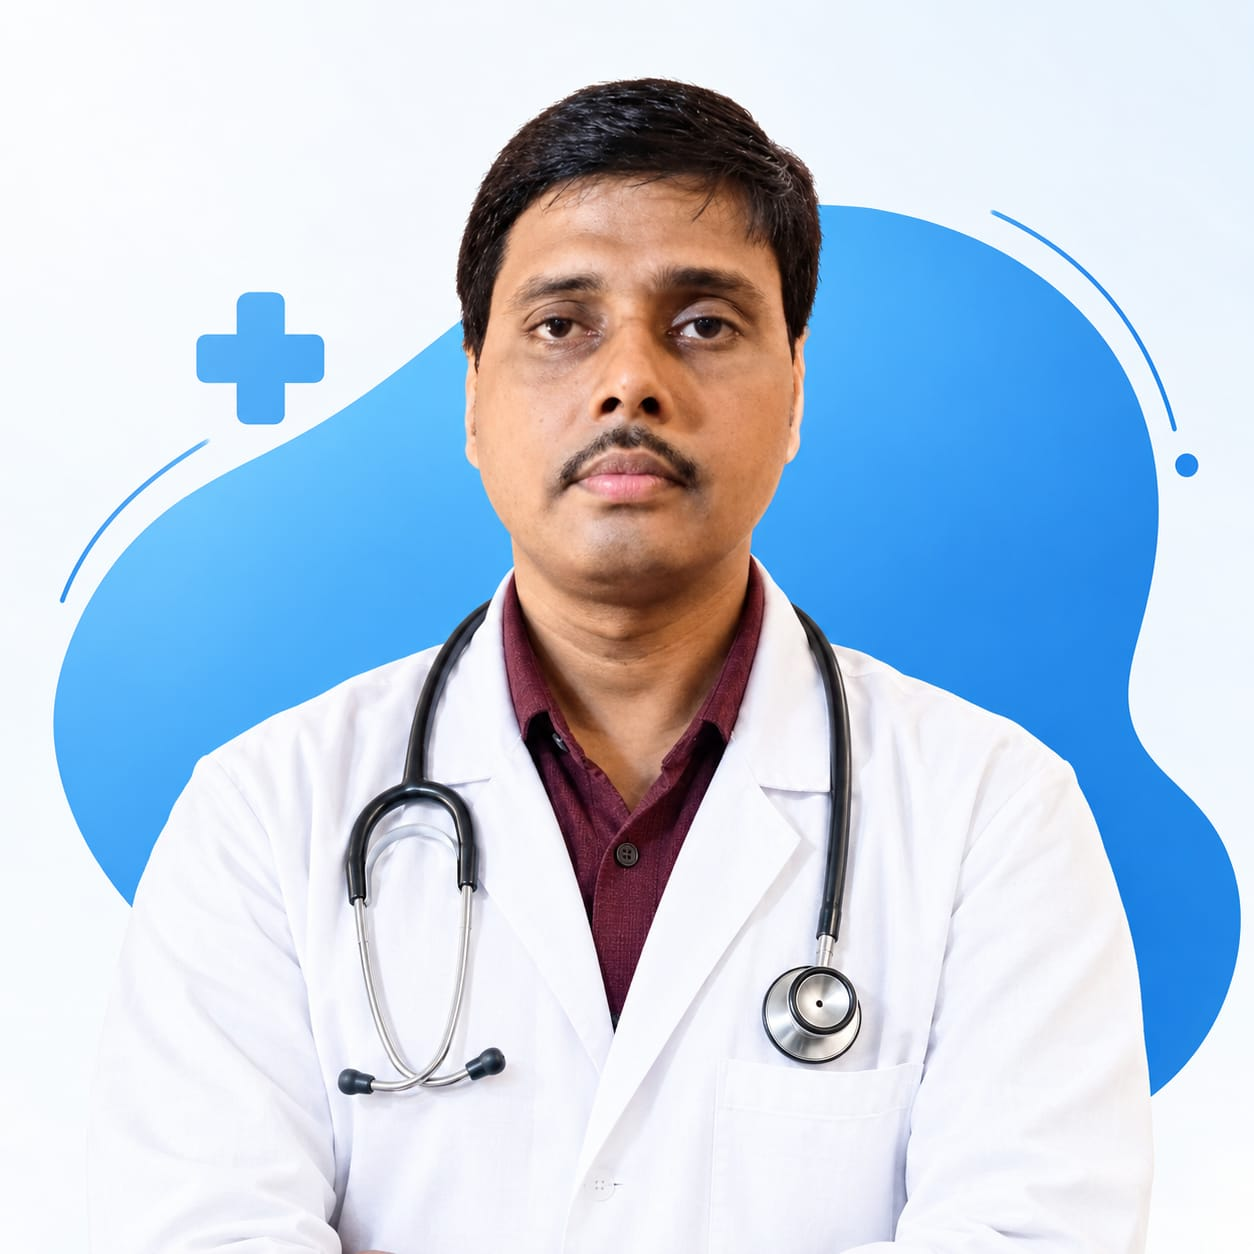
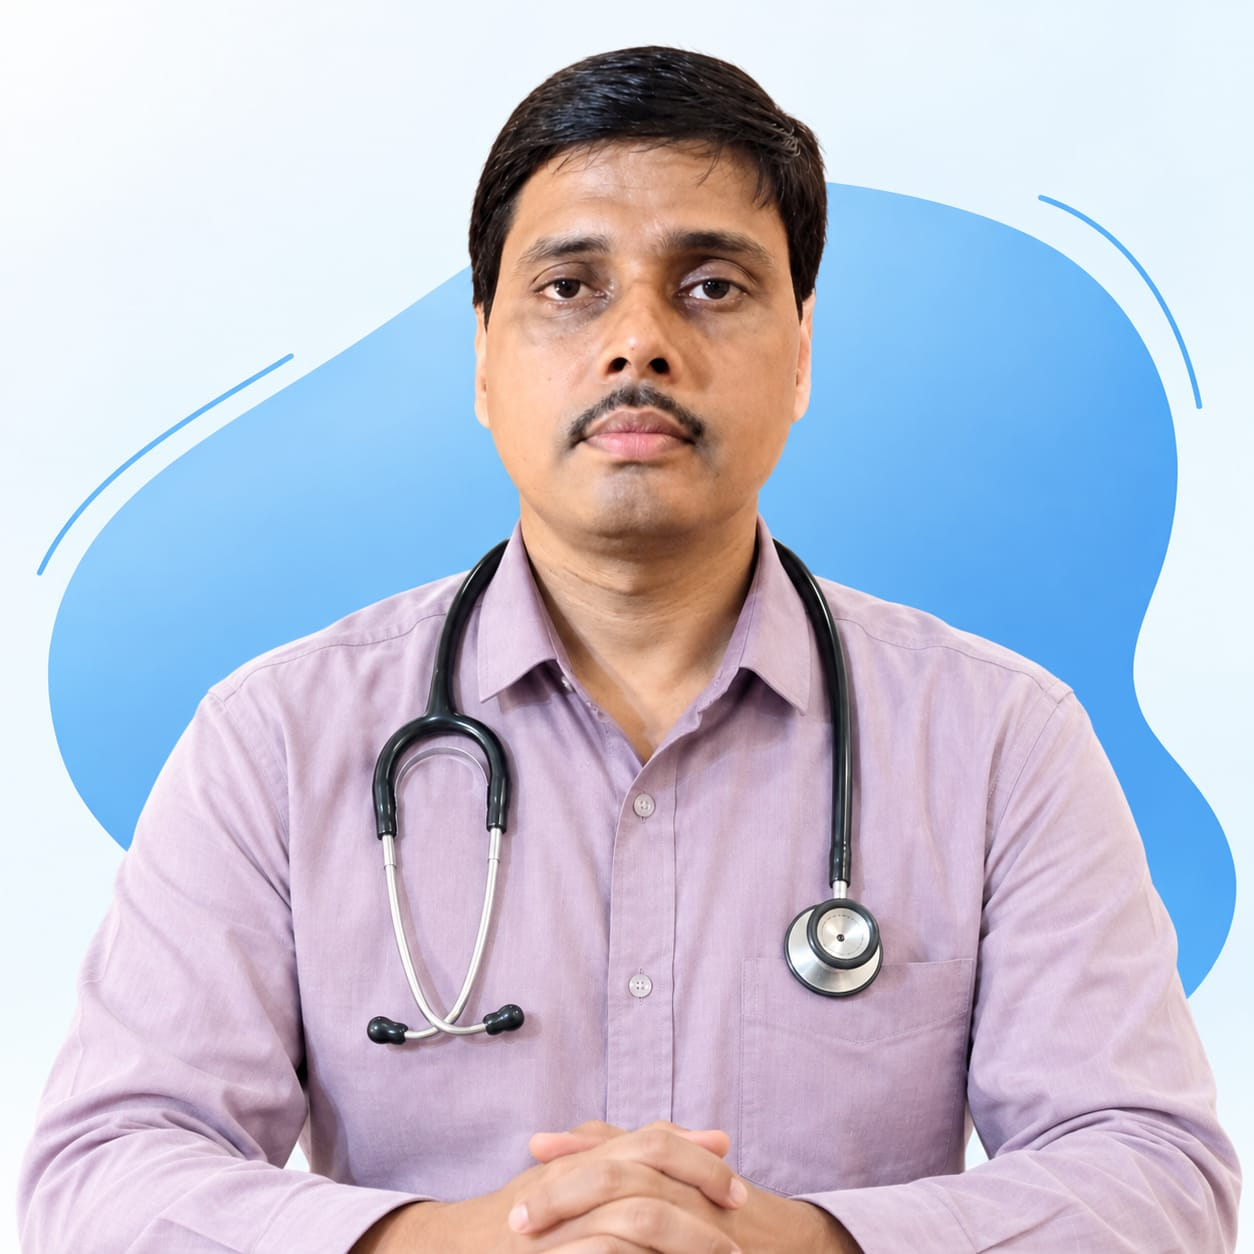
Update project

diff --git a/src/components/Navbar/Navbar.jsx b/src/components/Navbar/Navbar.jsx
@@ -1,11 +1,15 @@
-import { useState, useEffect } from 'react';
-import { NavLink, Link } from 'react-router-dom';
+import { useState, useEffect, useRef } from 'react';
+import { NavLink, Link, useNavigate } from 'react-router-dom';
 import Button from '../Button/Button';
+import logoImage from '../../assets/images/Logo.png';
 import './Navbar.css';
 
 export default function Navbar() {
   const [isScrolled, setIsScrolled] = useState(false);
   const [isMobileMenuOpen, setIsMobileMenuOpen] = useState(false);
+  const [adminClickCount, setAdminClickCount] = useState(0);
+  const clickTimeoutRef = useRef(null);
+  const navigate = useNavigate();
 
   useEffect(() => {
     const handleScroll = () => {
@@ -17,13 +21,38 @@ export default function Navbar() {
 
   const closeMenu = () => setIsMobileMenuOpen(false);
 
+  const handleLogoClick = (e) => {
+    // Normal single click navigates to Home natively via React Router <Link>
+    setAdminClickCount((prev) => {
+      const newCount = prev + 1;
+      if (newCount >= 7) {
+        navigate('/admin/login');
+        return 0; // reset
+      }
+      return newCount;
+    });
+
+    if (clickTimeoutRef.current) {
+      clearTimeout(clickTimeoutRef.current);
+    }
+    
+    clickTimeoutRef.current = setTimeout(() => {
+      setAdminClickCount(0);
+    }, 1500);
+
+    closeMenu();
+  };
+
   return (
     <header className={`navbar ${isScrolled ? 'scrolled' : ''}`}>
       <div className="container navbar-container">
         
-        <Link to="/" className="navbar-brand" onClick={closeMenu}>
-          <span className="brand-name">Dr. Suman Pandab</span>
-          <span className="brand-subtitle">Homoeopathic Physician</span>
+        <Link to="/" className="navbar-brand" onClick={handleLogoClick}>
+          <img src={logoImage} alt="Dr. Suman Pandab Logo" className="brand-logo" />
+          <div className="brand-text">
+            <span className="brand-name">Dr. Suman Pandab</span>
+            <span className="brand-subtitle">Homoeopathic Physician</span>
+          </div>
         </Link>
 
         <button 

diff --git a/src/components/Footer/Footer.jsx b/src/components/Footer/Footer.jsx
@@ -1,5 +1,6 @@
 import { Link } from 'react-router-dom';
 import BlueprintBackground from '../BlueprintBackground/BlueprintBackground';
+import logoImage from '../../assets/images/Logo.png';
 import './Footer.css';
 
 export default function Footer() {
@@ -10,8 +11,13 @@ export default function Footer() {
           <div className="footer-grid">
             
             <div className="footer-col">
-              <h3 className="footer-brand">Dr. Suman Pandab</h3>
-              <p className="footer-subtitle">Homoeopathic Physician</p>
+              <div className="footer-brand">
+                <img src={logoImage} alt="Dr. Suman Pandab Logo" className="footer-logo" />
+                <div className="footer-brand-text">
+                  <h3 className="footer-brand-name">Dr. Suman Pandab</h3>
+                  <p className="footer-subtitle">Homoeopathic Physician</p>
+                </div>
+              </div>
               <p className="footer-desc">
                 Providing thoughtful homoeopathic care for a healthier tomorrow. Safe, natural, and personalized treatment.
               </p>

diff --git a/src/pages/Home/Home.css b/src/pages/Home/Home.css
@@ -17,7 +17,7 @@
 
 /* 1. HERO SECTION */
 .hero-section {
-  padding-top: calc(80px + var(--space-12)); /* Account for navbar */
+  padding-top: var(--space-12);
   padding-bottom: var(--space-16);
   min-height: 100vh;
   display: flex;
@@ -128,28 +128,7 @@
   width: 100%;
   max-width: 420px;
   aspect-ratio: 3/4;
-  padding: var(--space-4);
-  border: 1px solid rgba(4, 46, 84, 0.1);
-  background-color: var(--color-white);
   box-shadow: var(--shadow-lg);
-}
-
-/* Subtle offset accent frame */
-.hero-image-frame::before {
-  content: '';
-  position: absolute;
-  top: -15px;
-  right: -15px;
-  width: 100%;
-  height: 100%;
-  border: 1px solid var(--color-accent);
-  opacity: 0.3;
-  z-index: -1;
-  transition: transform var(--transition-slow);
-}
-
-.hero-image-frame:hover::before {
-  transform: translate(5px, -5px);
 }
 
 .hero-image-inner {
@@ -157,7 +136,6 @@
   height: 100%;
   overflow: hidden;
   background-color: var(--color-surface-light);
-  border: 1px solid rgba(4, 46, 84, 0.1);
 }
 
 .hero-image {

diff --git a/src/App.jsx b/src/App.jsx
@@ -1,4 +1,5 @@
-import { BrowserRouter, Routes, Route, Outlet } from 'react-router-dom';
+import { useEffect } from 'react';
+import { BrowserRouter, Routes, Route, Outlet, useLocation } from 'react-router-dom';
 import Home from './pages/Home/Home';
 import About from './pages/About/About';
 import Consultation from './pages/Consultation/Consultation';
@@ -31,9 +32,20 @@ function MainLayout() {
   );
 }
 
+function ScrollToTop() {
+  const { pathname } = useLocation();
+
+  useEffect(() => {
+    window.scrollTo(0, 0);
+  }, [pathname]);
+
+  return null;
+}
+
 export default function App() {
   return (
     <BrowserRouter>
+      <ScrollToTop />
       <Routes>
         {/* Public Routes */}
         <Route element={<MainLayout />}>

diff --git a/src/components/Footer/Footer.css b/src/components/Footer/Footer.css
@@ -36,11 +36,29 @@
 }
 
 .footer-brand {
+  display: flex;
+  align-items: center;
+  gap: var(--space-3);
+  margin-bottom: var(--space-2);
+}
+
+.footer-logo {
+  height: 48px;
+  width: auto;
+  object-fit: contain;
+}
+
+.footer-brand-text {
+  display: flex;
+  flex-direction: column;
+}
+
+.footer-brand-name {
   font-family: var(--font-heading);
   font-size: var(--font-size-3xl);
   font-weight: 500;
   color: var(--color-white);
-  margin-bottom: var(--space-2);
+  margin-bottom: 2px;
 }
 
 .footer-subtitle {

diff --git a/src/components/Navbar/Navbar.css b/src/components/Navbar/Navbar.css
@@ -25,6 +25,24 @@
 
 .navbar-brand {
   display: flex;
+  align-items: center;
+  gap: var(--space-3);
+}
+
+.brand-logo {
+  height: 40px;
+  width: auto;
+  object-fit: contain;
+}
+
+@media (min-width: 768px) {
+  .brand-logo {
+    height: 48px;
+  }
+}
+
+.brand-text {
+  display: flex;
   flex-direction: column;
 }
 

diff --git a/src/components/BlueprintBackground/BlueprintBackground.css b/src/components/BlueprintBackground/BlueprintBackground.css
@@ -2,6 +2,7 @@
   position: relative;
   width: 100%;
   height: 100%;
+  overflow: hidden;
 }
 
 .blueprint-absolute {
